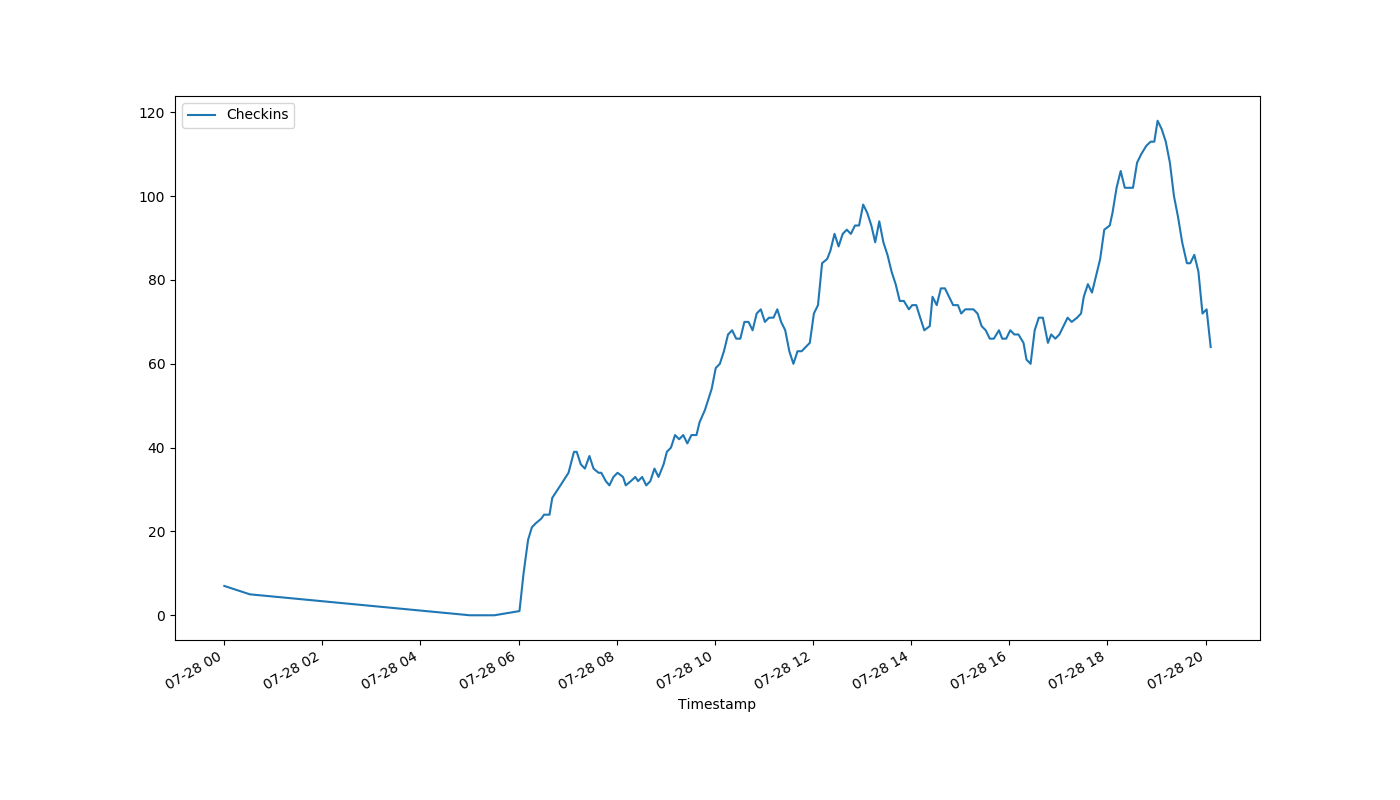
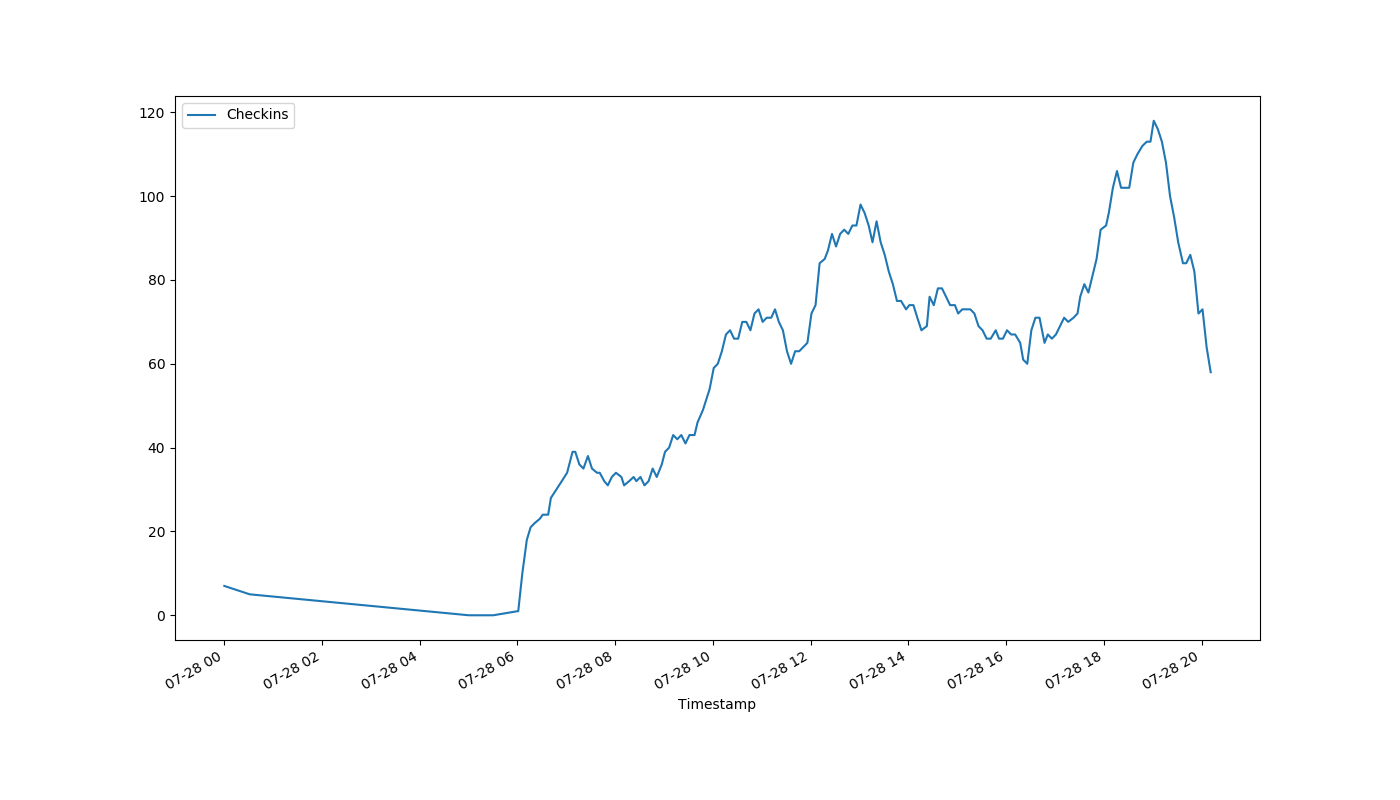
auto-Jul-28-20:12:14

diff --git a/index.html b/index.html
@@ -1,1 +1,1 @@
-<!DOCTYPE html><html><head><meta http-equiv="refresh" content="30"><link rel='stylesheet' href='holmcurrent.css'></head><body><p id='count'>64</p><div id='graph-wrap'><img id='graph' src='holmgraph-Jul-28.png'></div><p id='updated'>Last updated 20:07:01 / 20:06:12</p></body></html>
+<!DOCTYPE html><html><head><meta http-equiv="refresh" content="30"><link rel='stylesheet' href='holmcurrent.css'></head><body><p id='count'>58</p><div id='graph-wrap'><img id='graph' src='holmgraph-Jul-28.png'></div><p id='updated'>Last updated 20:12:01 / 20:11:12</p></body></html>
